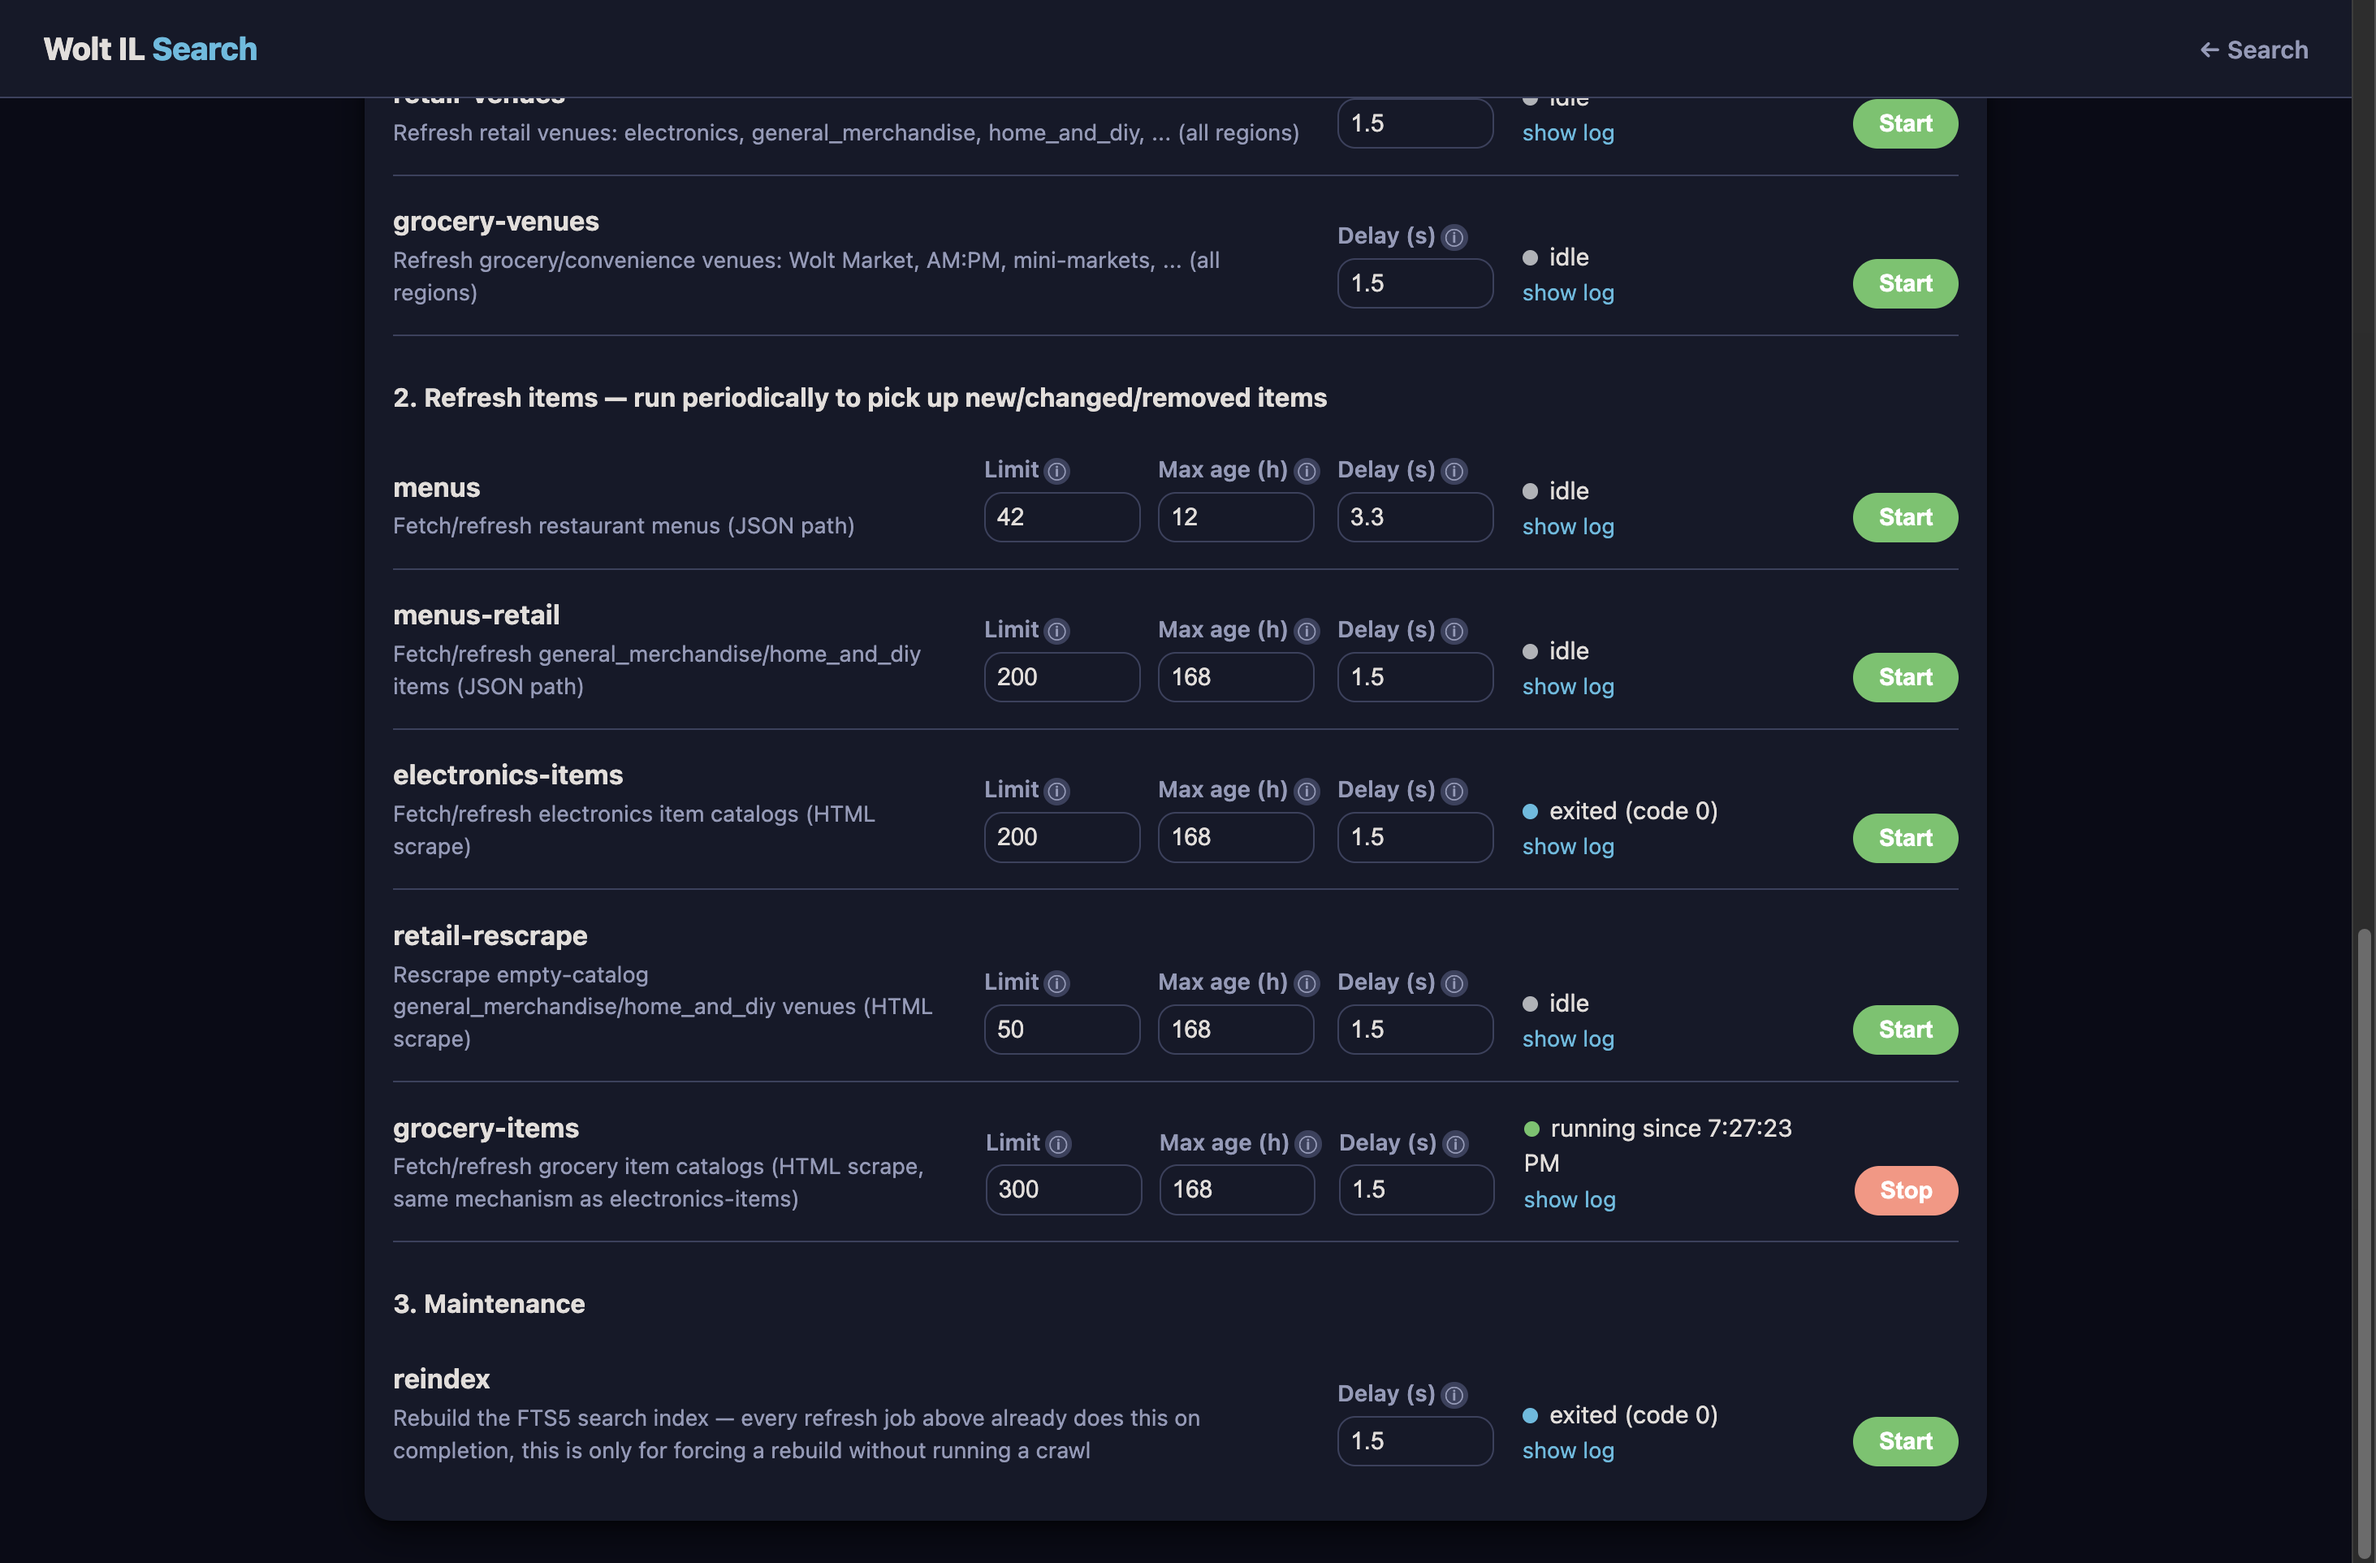
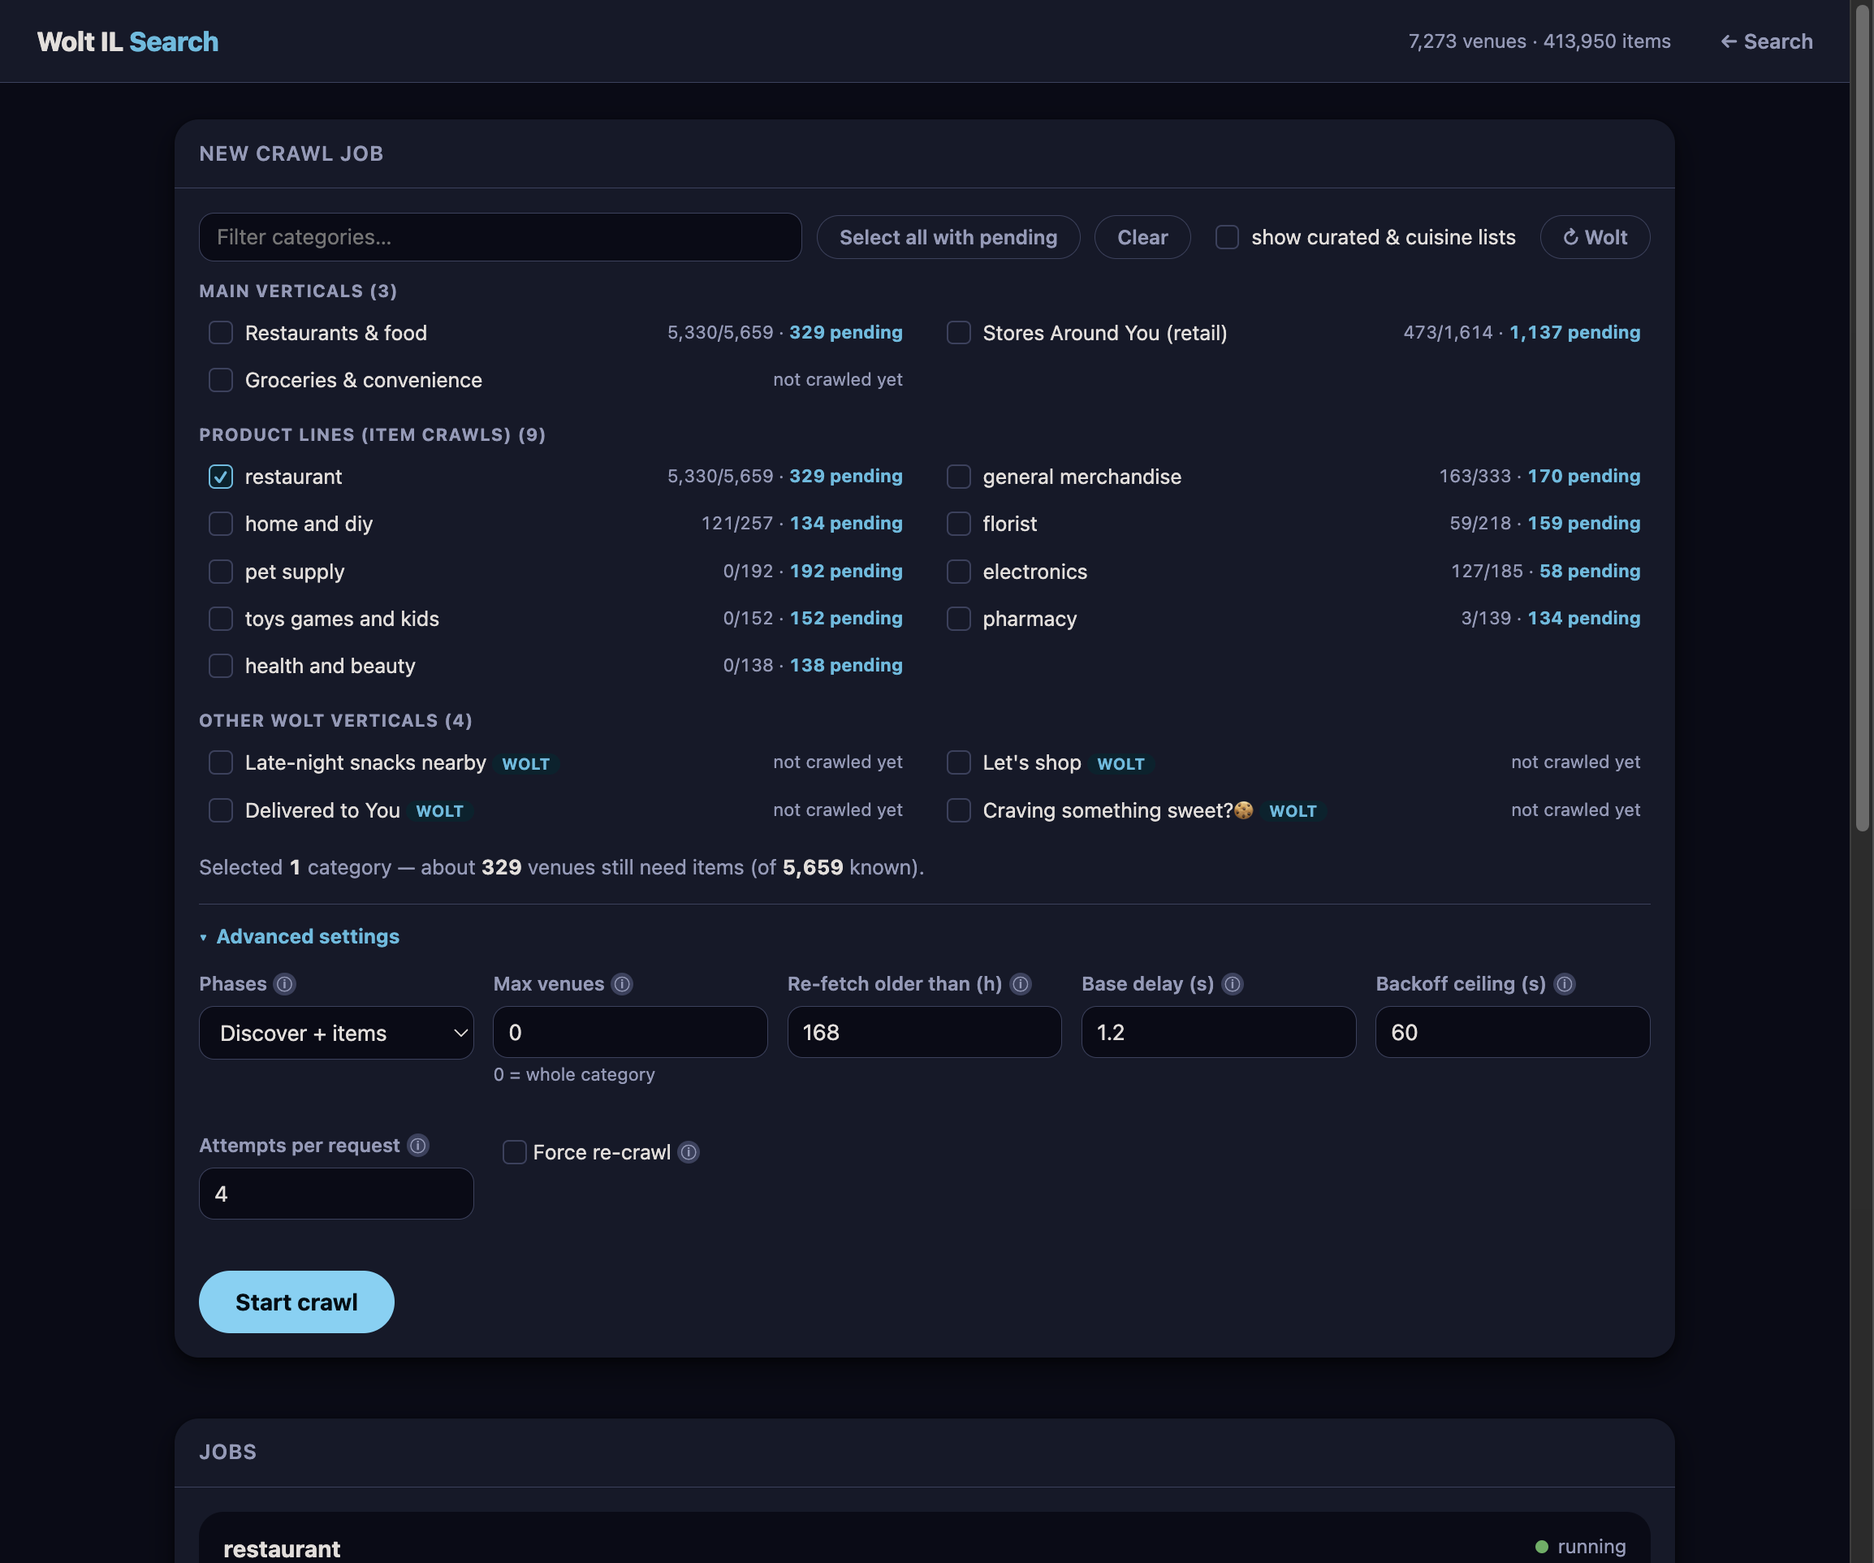
Update the README and screenshots for the new admin flow
The README documented the 11-tile admin grid, a max-venues field that no
longer exists, and claimed 429 backoff that had not been implemented.

- Quick start and "Building the cache" are rewritten around the category
  picker and the crawl/categories commands (--phases, --limit 0, --force,
  --progress json).
- "Keeping it fresh" collapses the per-vertical cron entries into one
  nightly crawl.
- The backoff claim is replaced with what backoff.py actually does, and
  categories.py is added to the module list.
- Documents the empty column and that jobs are persisted and re-attached.
- Refreshes the stale status sample output.

Screenshots are recaptured: the search UI with the unified filters, the job
creator at its real defaults, and a new one showing a running job with live
progress, ETA, current venue and its tailing log.

diff --git a/README.md b/README.md
@@ -44,13 +44,22 @@ jobs with no login, so `docker-compose.yml` publishes it as
 `8787:8787` if you actually want other devices on your network to reach it).
 The cache starts empty (crawling is a deliberate, rate-limited step, not
 something that happens automatically on container start — see "Building the
-cache" below). Open **http://localhost:8787/admin** and hit Start on
-`regions`, then `venues` + `retail-venues` + `grocery-venues` (fast, a couple
-of minutes), then `menus` + `electronics-items` + `grocery-items` (slow,
-hours the first time — but they run as background jobs, so leave the tab and
-come back). All of this also works
-directly via the API (`curl -X POST localhost:8787/api/jobs/venues/start`),
-which is what the admin buttons call.
+cache" below). Open **http://localhost:8787/admin**, tick the categories you
+want (start with **Restaurants & food**, **Stores Around You**, and
+**Groceries & convenience**) and press **Start crawl**. That's the whole
+setup: the entire selection is crawled, so there's no venue count to guess
+at. The first full run takes hours, but jobs run as background processes —
+close the tab, come back later, the progress is still there.
+
+The same thing from the API (which is exactly what the button calls):
+
+```bash
+curl -X POST localhost:8787/api/jobs -H 'Content-Type: application/json' \
+  -d '{"categories": ["restaurants", "isr_retail_gm", "g_retail_groceries"]}'
+```
+
+`GET /api/categories` lists the valid keys; they're discovered from Wolt's own
+front-page API, so new verticals appear in the picker without a code change.
 
 The SQLite cache, its FTS5 index, and job logs all live in the `/data`
 volume (`wolt-data` in `docker-compose.yml`), so `docker compose down` /
@@ -83,55 +92,71 @@ several page fetches per venue (they use a different, heavier crawl — see
 "How it works"). Because of that, crawling is a separate, resumable CLI
 step — never something an MCP tool call triggers inline.
 
+One command does all of it. `crawl` takes category keys, runs both phases
+(discover venues, then fetch their items), picks the right item strategy per
+category (JSON API, HTML scraper, or JSON-with-scrape-fallback), and reindexes
+when it's done:
+
 ```bash
-# One-time: region list + every venue in every region (~2-5 min, occasional 429s are normal — just rerun, it's idempotent)
-.venv/bin/wolt-il-refresh regions
-.venv/bin/wolt-il-refresh venues          # restaurants
-.venv/bin/wolt-il-refresh retail-venues   # electronics, general merchandise, ...
-.venv/bin/wolt-il-refresh grocery-venues  # Wolt Market, AM:PM, mini-markets, ...
+# What can I crawl? (discovered live from Wolt's front page, cached for a day)
+.venv/bin/wolt-il-refresh categories
 
-# Restaurant menus: one request per venue. Run in the background — this can take hours the first time.
-nohup .venv/bin/wolt-il-refresh --delay 2.0 menus --limit 6000 --max-age-hours 999999 > menu_crawl.log 2>&1 &
+# One-time full build. No --limit means "all of it". Background it: hours on the first run.
+nohup .venv/bin/wolt-il-refresh crawl \
+  --categories restaurants,isr_retail_gm,g_retail_groceries > crawl.log 2>&1 &
 
-# Electronics item catalogs: several page fetches per venue, slower. Also background it.
-nohup .venv/bin/wolt-il-refresh --delay 2.0 electronics-items --limit 250 --max-age-hours 999999 > electronics_crawl.log 2>&1 &
+# Or one vertical at a time, e.g. just the retail product lines that still need items:
+.venv/bin/wolt-il-refresh crawl --categories pl:florist,pl:pet_supply,pl:pharmacy
 
-# Grocery item catalogs: same mechanism as electronics-items, also background it.
-nohup .venv/bin/wolt-il-refresh --delay 2.0 grocery-items --limit 250 --max-age-hours 999999 > grocery_crawl.log 2>&1 &
-
-# Rebuild the FTS5 search index once crawling has made progress (search reads only from this index):
+# Rebuild the FTS5 index on its own (every crawl already does this at the end):
 .venv/bin/wolt-il-refresh reindex
 ```
 
-`general_merchandise`/`home_and_diy` venues are a mix of loading strategies —
-most work through `menus` above, but some come back with an empty catalog and
-need the same HTML scraper `electronics-items` uses. Follow up on just those:
+Useful flags: `--phases discover` or `--phases items` to run one half,
+`--limit 25` for a quick test batch (`0`, the default, means no cap),
+`--max-age-hours` to change what counts as stale, `--force` to ignore
+freshness entirely, and `--progress json` to get the same NDJSON event stream
+the admin UI consumes.
 
-```bash
-.venv/bin/wolt-il-refresh retail-rescrape --limit 50 --product-lines general_merchandise,home_and_diy
-```
+Retail venues whose catalog comes back empty from the JSON API are picked up
+automatically by the HTML-scraper fallback inside the same run — no separate
+rescrape command needed.
+
+The older per-vertical subcommands (`regions`, `venues`, `retail-venues`,
+`grocery-venues`, `menus`, `electronics-items`, `grocery-items`,
+`retail-rescrape`, `full`) still work and still take `--limit`/`--max-age-hours`,
+kept for existing scripts and cron entries.
 
 Check progress any time:
 
 ```bash
 .venv/bin/wolt-il-refresh status
-# {'regions': 24, 'venues': 7273, 'venues_with_menu': 1200, 'menu_items': 71000}
+# {'regions': 24, 'venues': 7273, 'venues_with_menu': 5979, 'menu_items': 402560,
+#  'venues_pending': 1294, 'venues_retrying': 0, 'venues_gave_up': 0}
 ```
 
 ### Keeping it fresh
 
 Venue lists change slowly; item catalogs change more often (prices, deals,
-new items). A reasonable cadence: re-run `venues`/`retail-venues`/`grocery-venues`
-weekly, and re-run `menus`/`electronics-items`/`grocery-items` nightly (capped
-`--limit` so each run finishes quickly) to refresh whatever's gone stale, then
-`reindex`:
+new items). Since `crawl` only touches venues that are actually stale, a
+nightly run of the same command is enough — it re-discovers venue lists and
+then works through whatever has aged past `--max-age-hours`:
 
 ```bash
-.venv/bin/wolt-il-refresh full --menu-limit 500   # regions + venues + a menu batch, reindexes itself
-.venv/bin/wolt-il-refresh electronics-items --limit 100
-.venv/bin/wolt-il-refresh grocery-items --limit 100
-.venv/bin/wolt-il-refresh reindex
+# Nightly: refresh anything older than a week, capped so the run ends by morning
+.venv/bin/wolt-il-refresh crawl \
+  --categories restaurants,isr_retail_gm,g_retail_groceries \
+  --max-age-hours 168 --limit 800
+
+# Weekly: venue lists only, cheap
+.venv/bin/wolt-il-refresh crawl --phases discover \
+  --categories restaurants,isr_retail_gm,g_retail_groceries
 ```
+
+A venue that fails transiently (429, 5xx, timeout) is retried on a per-venue
+backoff and *not* marked fetched, so it comes back around on the next run
+instead of being skipped for the whole staleness window. After 10 consecutive
+failures it's parked and counted under "gave up" in the admin UI.
 
 This is a good candidate for a nightly cron job / launchd job / Orca
 automation.
@@ -145,9 +170,19 @@ automation.
 - Honest result counts ("Showing 20 of 1,131") with Load More pagination — nothing is silently capped
 - Dark theme only, styled to match wolt.com's own production palette (`#009de0` brand blue, pure-black dark mode, pill-shaped buttons — pulled from wolt.com's actual CSS, not guessed)
 
-`http://localhost:8787/admin` — cache stats by category, and Start/Stop/log-tail controls for every crawl job in `cli.py`, so you never need a terminal to (re)build the cache. Job tracking is in-memory in the webapp process: a crawl you started keeps running if you close the tab, but restarting the webapp process itself (not the Docker container — a container restart kills the crawl too) orphans it from the admin UI's view.
+`http://localhost:8787/admin` — one job creator plus a live list of jobs, so you never need a terminal to (re)build the cache:
 
-![Admin UI showing a running crawl job](docs/admin-screenshot.png)
+- **Pick categories, press Start.** The category list is discovered from Wolt's front-page API (`/v1/pages/front`) and merged with whatever's already in your cache, so it reflects Wolt's actual verticals instead of a hardcoded list. Each row shows `with-items / known venues` and how many are still pending.
+- **No venue cap to set.** A crawl covers the whole selection by default. Everything else — phase selection, a test-batch limit, staleness cutoff, base delay, backoff ceiling, retry attempts, force re-crawl — lives under **Advanced settings**, collapsed, because the defaults are what you want almost every time.
+- **Live progress, not just a log**: current phase, a progress bar with `X/Y`, ok/failed/item counts, elapsed, ETA, and the venue being fetched right now. When the crawler is backing off it says so (`⏳ HTTP 429 — backing off 8.4s, pacing now 3.2s`) instead of looking frozen.
+- **Up to 3 concurrent jobs**, each with its own optional log pane that tails incrementally and keeps your scroll position.
+- **Cache status** broken down per product line: venues, with-items, `empty` (fetched fine but zero items — what the scrape fallback targets), pending, retrying, and gave-up counts.
+
+Jobs are persisted to a `jobs` table, so restarting the webapp process re-attaches to any crawl that's still running and replays its log rather than orphaning it. (A Docker *container* restart still kills the crawl itself — it's a child process.)
+
+![Admin UI: the crawl job creator, with categories discovered from Wolt and tuning knobs behind Advanced settings](docs/admin-screenshot.png)
+
+![Admin UI: a running crawl job with live progress, ETA, the venue being fetched, and its tailing log](docs/admin-job-screenshot.png)
 
 ## Using it standalone (no Claude needed)
 
@@ -187,7 +222,19 @@ For Claude Desktop, add the same block to
 - `client.py` — raw HTTP calls to `consumer-api.wolt.com` (`/v1/cities`,
   `/v1/pages/restaurants?lat=&lon=&radius=`, `/v1/pages/venue-list/{target}`
   for the retail and grocery verticals, and the per-venue assortment
-  endpoint), with rate limiting and 429 backoff.
+  endpoint), with rate limiting and retries via `backoff.py`.
+- `backoff.py` — the retry/pacing layer shared by `client.py` and
+  `retail_scraper.py`. Truncated exponential backoff with **equal jitter**
+  (`delay/2 + random(0, delay/2)`): full jitter can return a near-zero wait
+  immediately after a 429, and no jitter marches every retry in lockstep.
+  `Retry-After` is honored when Wolt sends it. On top of that an AIMD
+  adaptive throttle widens the inter-request gap multiplicatively on
+  429/5xx and recovers it additively after 25 clean responses, so the crawl
+  finds a sustainable rate on its own instead of relying on you to tune
+  `--delay`. 4xx other than 429 is treated as permanent and never retried.
+- `categories.py` — turns Wolt's front page into the crawlable category
+  catalog the admin UI and `crawl` command share, so the vertical list isn't
+  duplicated in three places.
 - `retail_scraper.py` — electronics and grocery venues use
   `loading_strategy: "partial"`: their item data isn't in any JSON API
   response at all, only the category tree. The real items are embedded as
@@ -213,9 +260,15 @@ For Claude Desktop, add the same block to
 - `server.py` — the FastMCP server wrapping `search.py` + a live menu lookup.
 - `webapp.py` — the FastAPI web UI (search + admin pages, HTML/CSS/JS embedded
   as strings, no separate frontend build step). Admin crawl jobs run as
-  subprocesses of this server (`python -m wolt_il_search.cli ...`) so a page
-  reload doesn't kill them; their logs go to `$WOLT_IL_DB`'s directory under
-  `job-logs/`.
+  subprocesses of this server (`python -m wolt_il_search.cli crawl ...`) so a
+  page reload doesn't kill them; their logs go to `$WOLT_IL_DB`'s directory
+  under `job-logs/`, one file per job id. The child emits NDJSON progress
+  events, a background thread folds them into live per-job state (so progress
+  advances whether or not a browser is watching), and the job row is persisted
+  so a webapp restart re-attaches by pid instead of losing the crawl.
+  The admin page builds its DOM once and then patches `textContent` in place;
+  it deliberately never reassigns `innerHTML` on a timer, which is what used
+  to make the page flicker and drop input focus every 5 seconds.
 - `Dockerfile` / `docker-compose.yml` — multi-stage build (build tools
   discarded from the final image), runs as a non-root user, cache lives on a
   named volume mounted at `/data` (`WOLT_IL_DB=/data/cache.db`).
@@ -232,8 +285,8 @@ Two deliberate findings baked into the design:
   `/v1/pages/venue-list/isr_retail_gm:{region}` vs.
   `/v1/pages/venue-list/g_retail_groceries:{region}`) with no shared
   listing — a crawl of one silently misses the others entirely, which is
-  why `refresh_venues()`, `refresh_retail_venues()`, and
-  `refresh_grocery_venues()` are three distinct functions. The grocery
+  why venue discovery is parameterized by target
+  (`refresh_venue_discovery()`) rather than assuming one listing endpoint. The grocery
   vertical isn't discoverable from `/v1/pages/restaurants` or
   `/v1/cities` at all — it only turned up by fetching Wolt's actual
   `/v1/pages/front` discovery endpoint (the one the web app itself calls
